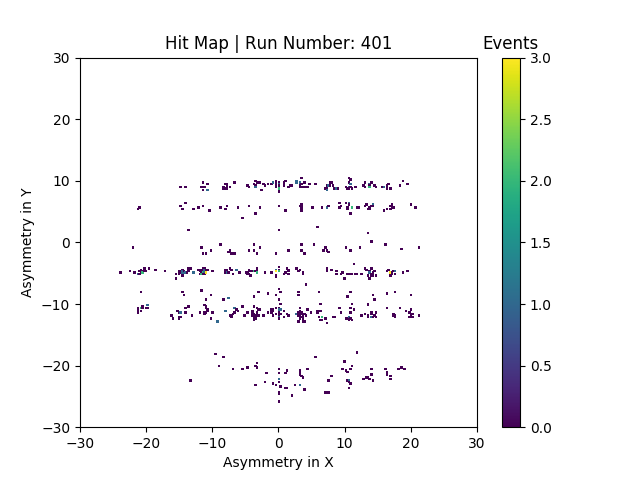
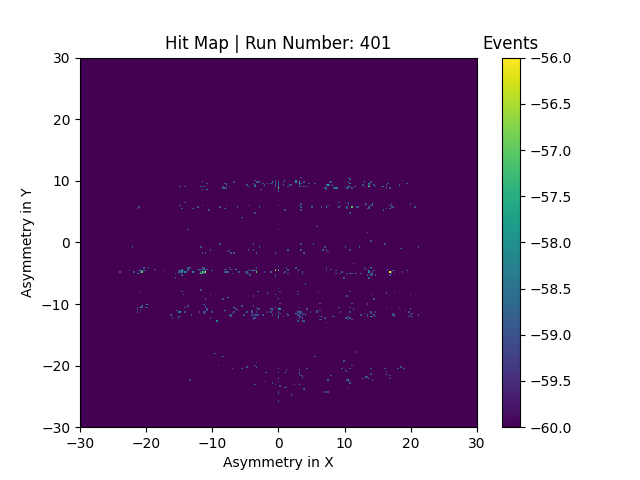
added modules for plotting individual channel operations and fixed negative value issues

diff --git a/CrateAnalysis/myAnalysisExample.py b/CrateAnalysis/myAnalysisExample.py
@@ -12,6 +12,7 @@ Todo:
 """
 
 import sys
+from ChannelOperations import *
 from runAnalysisSequence import runAnalysisSequence
 from UtilityModules import *
 from ADCPrintingModule import *
@@ -49,6 +50,7 @@ def main(argv):
     mod6 = LC3377PrintingModule()
     mod7 = TDCUnpacker("TDCUnpacker")
     mod8 = TDCAnalyzer("TDCAnalyzer")
+    mod9 = ChannelOperations("ChannelOperations")
     gptr = GenericPrintingModule(("hw_event_count", "deadtime"))
 
     # Example histogram specifier
@@ -146,13 +148,37 @@ def main(argv):
     hitMap = HistoMaker2D("hitMap", "Hit Map", "Asymmetry in X", nbins, -30.0,
                           30.0, L1asym, "Asymmetry in Y", nbins, -30.0, 30.0,
                           L2asym)
-
     myLayer1diff = HistoMaker1D((histo_layer1diff, ), "histo_layer1diff")
     myLayer2diff = HistoMaker1D((histo_layer2diff, ), "histo_layer2diff")
     myLayer1asym = HistoMaker1D((histo_layer1asym, ), "histo_layer1asym")
     myLayer2asym = HistoMaker1D((histo_layer2asym, ), "histo_layer2asym")
 
-    #    diff = channelDifferenceCalulator((2,1), (2,2), slot1)
+    #channels 0 and 1
+    ch0Subch1 = lambda x: x["Layer_1"].get("sub_TDC")
+    histo_ch0Subch1 = Histo1DSpec("Layer 1 Ch0 - Ch 1",
+                                  "TDC counts diff Ch0 and Ch 1", 200,
+                                  ch0Subch1)
+    hMaker_ch0Subch1 = HistoMaker1D((histo_ch0Subch1, ), "hmaker_ch0Subch1")
+
+    ch0Addch1 = lambda x: x["Layer_1"].get("add_TDC")
+    histo_ch0Addch1 = Histo1DSpec("Layer 1 Ch0 + Ch 1",
+                                  "TDC counts add Ch0 and Ch 1", 200,
+                                  ch0Addch1)
+    hMaker_ch0Addch1 = HistoMaker1D((histo_ch0Addch1, ), "hmaker_ch0Addch1")
+
+    #channels 3 and 4
+    ch3Subch4 = lambda x: x["Layer_2"].get("sub_TDC")
+    histo_ch3Subch4 = Histo1DSpec("Layer 2 Ch3 - Ch 4",
+                                  "TDC counts diff Ch3 and Ch 4", 200,
+                                  ch3Subch4)
+    hMaker_ch3Subch4 = HistoMaker1D((histo_ch3Subch4, ), "hmaker_ch3Subch4")
+
+    ch3Addch4 = lambda x: x["Layer_2"].get("add_TDC")
+    histo_ch3Addch4 = Histo1DSpec("Layer 2 Ch3 + Ch 4",
+                                  "TDC counts add Ch3 and Ch 4", 200,
+                                  ch3Addch4)
+    hMaker_ch3Addch4 = HistoMaker1D((histo_ch3Addch4, ), "hmaker_ch3Addch4")
+
     # Define the sequence of modules
     #    modules = (mod0, mod1, mod7, mod8, tdcH, hitMap)
     # tdc_all_channels = getTDCDataAllChannels(
@@ -162,11 +188,16 @@ def main(argv):
         mod1,
         mod7,
         mod8,
-        histAllChannels,
+        mod9,
+        # hMaker_ch0Subch1,
+        # hMaker_ch0Addch1,
+        # hMaker_ch3Subch4,
+        # hMaker_ch3Addch4,
+        # histAllChannels,
         # histAllChannelSep,
-        # myLayer1asym,
-        # myLayer2asym,
-        # hitMap,
+        myLayer1asym,
+        myLayer2asym,
+        hitMap,
         # h2dL1_rotate,
         # h2dL2_rotate,
         # hMaker2,
@@ -186,6 +217,16 @@ def main(argv):
     print('Processed %d events in %g sec' % (n, dt.total_seconds()))
     #hitMap.redraw(0,15)
     return 0
+
+
+def getValue(layer, op):
+    l = lambda x: x["Channels_Added"].get("layer")
+    if layer == l and op == "+":
+        res = lambda x: x["Channels_Added"].get("add_TDC")
+        return res
+    elif layer == l and op == "-":
+        res = lambda x: x["Channels_Added"].get("sub_TDC")
+        return res
 
 
 def getTDCDataAllChannels(hMakerObjectArray):

diff --git a/CrateAnalysis/HistoMaker1D.py b/CrateAnalysis/HistoMaker1D.py
@@ -7,6 +7,7 @@ __version__ = "0.1"
 __date__ = "June 23 2017"
 
 import matplotlib.pyplot as plt
+import numpy as np
 from AbsAnalysisModule import AbsAnalysisModule
 
 
@@ -29,6 +30,7 @@ class HistoMaker1D(AbsAnalysisModule):
         AbsAnalysisModule.__init__(self, name)
         self._specs = specs
         self._data = [list() for i in range(len(specs))]
+        self.otol = 10  #outlier tolerance multiple
 
     def beginJob(self, allModuleNames):
         pass
@@ -38,6 +40,17 @@ class HistoMaker1D(AbsAnalysisModule):
         for i, spec in enumerate(self._specs):
             fig = plt.figure()
             ax = fig.add_subplot(111)
+            #print(self._data[i])
+            self._data[i].sort()
+            diff_last_two = self._data[i][-1] - self._data[i][-2]
+            diff_compare = self._data[i][-2] - self._data[i][-3]
+            diff_v = np.diff(self._data[i])
+            ave_diff = sum(diff_v) / len(diff_v)
+            # print("diff_last_two : {}".format(diff_last_two))
+            # print("diff_compare : {}".format(diff_compare))
+            # print("ave_diff : {}".format(ave_diff))
+            self._data[i].pop()
+            self._data[i].pop(0)
             plot = ax.hist(self._data[i], spec.nbins)
             ax.grid(True)
             ax.set_xlabel(spec.xlabel)
@@ -53,8 +66,9 @@ class HistoMaker1D(AbsAnalysisModule):
 
     def processEvent(self, runNumber, eventNumber, eventRecord):
         for i, spec in enumerate(self._specs):
-            if (spec.calculator(eventRecord) != None
-                    and spec.calculator(eventRecord) > 0):
+            # if (spec.calculator(eventRecord) != None
+            # and spec.calculator(eventRecord) > 0):
+            if (spec.calculator(eventRecord) != None):
                 self._data[i].append(spec.calculator(eventRecord))
 
 

diff --git a/CrateAnalysis/ChannelOperations.py b/CrateAnalysis/ChannelOperations.py
@@ -1,0 +1,47 @@
+"""
+@author: Sadman Ahmed Shanto
+@date: 2020-09-18
+"""
+
+from LC3377 import *
+from UtilityModules import DummyModule
+
+
+class ChannelOperations(DummyModule):
+    # In the constructor, provide whatever arguments
+    # you intend to play with
+    def __init__(self, name):
+        DummyModule.__init__(self, name)
+
+    def beginRun(self, runNumber, runRecord):
+        runConfiguration = runRecord[(runNumber, "runConfiguration")]
+        self.tdc_slots = runConfiguration["tdc_slots_3377"]
+
+    def processEvent(self, runNumber, eventNumber, eventRecord):
+        tdcData = eventRecord["unpacked3377Data"]
+        lenTDCData = eventRecord["len_unpacked_3377Data"]
+        # print(tdcData)
+        # for i in
+        # print(50 * "=")
+        channelOp1 = dict()  #keys: (layer_num, add_TDC, sub_TDC)
+        channelOp2 = dict()  #keys: (layer_num, add_TDC, sub_TDC)
+
+        if (2, 0) in tdcData and (2, 1) in tdcData and lenTDCData >= 2:
+            layer_num = 1
+            add_TDC = tdcData[(2, 0)] + tdcData[(2, 1)]
+            sub_TDC = tdcData[(2, 0)] - tdcData[(2, 1)]
+            channelOp1.update({"add_TDC": add_TDC})
+            channelOp1.update({"sub_TDC": sub_TDC})
+
+        if (2, 3) in tdcData and (2, 4) in tdcData and lenTDCData >= 2:
+            layer_num = 2
+            add_TDC = tdcData[(2, 3)] + tdcData[(2, 4)]
+            sub_TDC = tdcData[(2, 3)] - tdcData[(2, 4)]
+            channelOp2.update({"add_TDC": add_TDC})
+            channelOp2.update({"sub_TDC": sub_TDC})
+
+        eventRecord["Layer_1"] = channelOp1
+        eventRecord["Layer_2"] = channelOp2
+        #print(eventRecord)
+        # self.printRawDataOutput(eventNumber, eventRecord)
+        # self.printSpecificData('TDCAnalyzer', eventNumber, eventRecord)

diff --git a/CrateAnalysis/HistoMaker2D.py b/CrateAnalysis/HistoMaker2D.py
@@ -55,7 +55,7 @@ class HistoMaker2D(AbsAnalysisModule):
 
         AbsAnalysisModule.__init__(self, name)
         self.name = name
-        self.defaultValue = -1
+        self.defaultValue = -0
         self.title = title
         self.xlabel = xlabel
         self.nxbins = int(nxbins)
@@ -88,7 +88,7 @@ class HistoMaker2D(AbsAnalysisModule):
 
     def endJob(self):
         plt.ioff()
-        self.data[self.data == -1] = np.nan
+        self.data[self.data == self.defaultValue] = np.nan
         self.redraw()
         print("In module %s: %s overflow %s" % \
               (self.moduleName, self.overflow, self._makeZLabel()))
